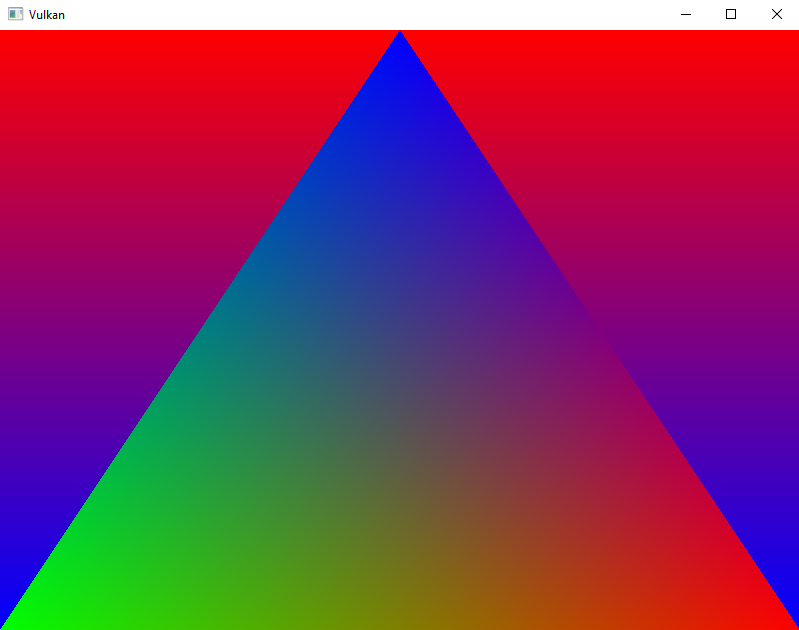
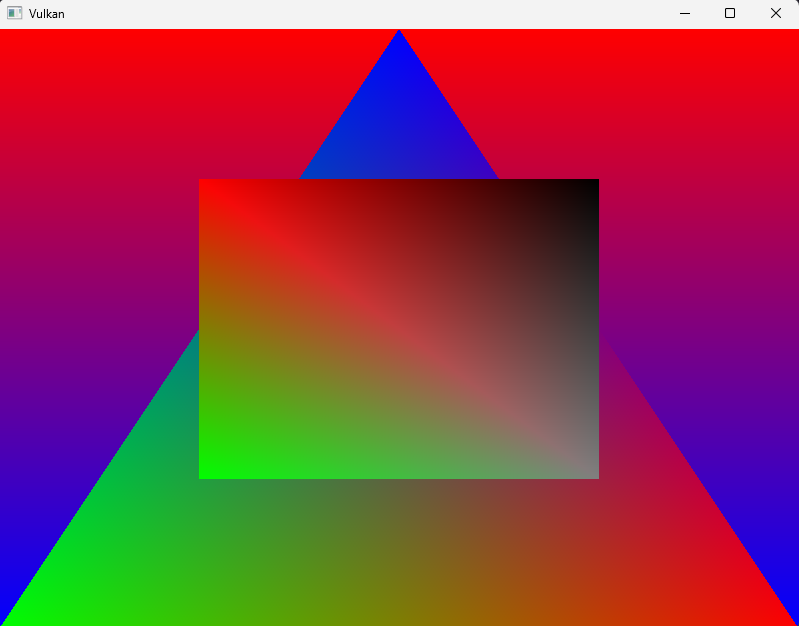
Initialized default data

diff --git a/Src/vk_engine.cpp b/Src/vk_engine.cpp
@@ -34,6 +34,7 @@ void VulkanEngine::init()
 	init_sync_structures();
 	init_descriptors();
 	init_pipelines();
+	init_default_data();
 
 	_isInitilized = true;
 }
@@ -655,22 +656,24 @@ GPUMeshBuffers VulkanEngine::uploadMesh(std::span<uint32_t> indices, std::span<V
 
 	GPUMeshBuffers newSurface;
 
-	newSurface.vertexBuffer = create_buffer(vertexBufferSize, VK_BUFFER_USAGE_STORAGE_BUFFER_BIT | VK_BUFFER_USAGE_TRANSFER_DST_BIT |
-		VK_BUFFER_USAGE_SHADER_DEVICE_ADDRESS_BIT, VMA_MEMORY_USAGE_GPU_ONLY);
+	newSurface.vertexBuffer = create_buffer(vertexBufferSize, VK_BUFFER_USAGE_STORAGE_BUFFER_BIT | VK_BUFFER_USAGE_TRANSFER_DST_BIT | VK_BUFFER_USAGE_SHADER_DEVICE_ADDRESS_BIT,
+		VMA_MEMORY_USAGE_GPU_ONLY);
 
-	VkBufferDeviceAddressInfo deviceAddressInfo{ .sType = VK_STRUCTURE_TYPE_BUFFER_DEVICE_ADDRESS_INFO, .buffer = newSurface.vertexBuffer.buffer };
-	newSurface.vertexBufferAddress = vkGetBufferDeviceAddress(_device, &deviceAddressInfo);
+	VkBufferDeviceAddressInfo deviceAdressInfo{ .sType = VK_STRUCTURE_TYPE_BUFFER_DEVICE_ADDRESS_INFO,.buffer = newSurface.vertexBuffer.buffer };
+	newSurface.vertexBufferAddress = vkGetBufferDeviceAddress(_device, &deviceAdressInfo);
 
-	newSurface.indexBuffer = create_buffer(indexBufferSize, VK_BUFFER_USAGE_INDEX_BUFFER_BIT | VK_BUFFER_USAGE_TRANSFER_DST_BIT, VMA_MEMORY_USAGE_GPU_ONLY);
+	newSurface.indexBuffer = create_buffer(indexBufferSize, VK_BUFFER_USAGE_INDEX_BUFFER_BIT | VK_BUFFER_USAGE_TRANSFER_DST_BIT,
+		VMA_MEMORY_USAGE_GPU_ONLY);
 
-	AllocatedBuffer staging = create_buffer(vertexBufferSize + indexBufferSize, VK_BUFFER_USAGE_TRANSFER_SRC_BIT, VMA_MEMORY_USAGE_GPU_ONLY);
+	AllocatedBuffer staging = create_buffer(vertexBufferSize + indexBufferSize, VK_BUFFER_USAGE_TRANSFER_SRC_BIT, VMA_MEMORY_USAGE_CPU_ONLY);
 
 	void* data = staging.allocation->GetMappedData();
 
 	memcpy(data, vertices.data(), vertexBufferSize);
 	memcpy((char*)data + vertexBufferSize, indices.data(), indexBufferSize);
 
-	immediate_submit([&](VkCommandBuffer cmd) {
+	immediate_submit([&](VkCommandBuffer cmd) 
+		{
 		VkBufferCopy vertexCopy{ 0 };
 		vertexCopy.dstOffset = 0;
 		vertexCopy.srcOffset = 0;
